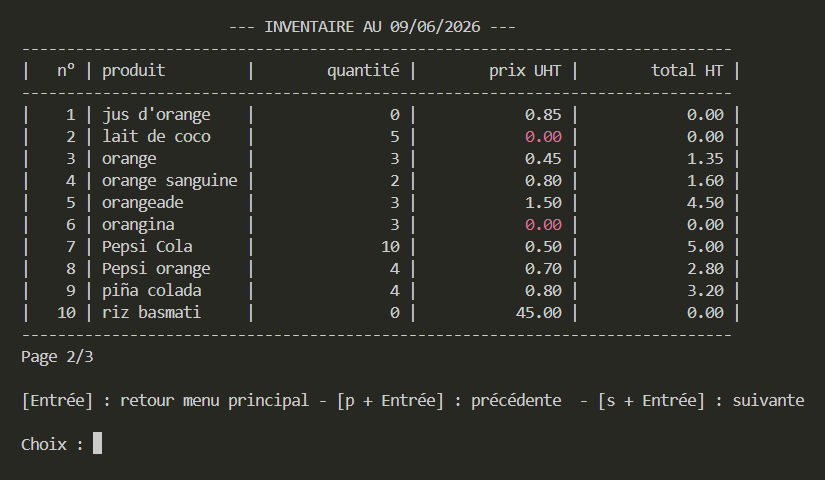
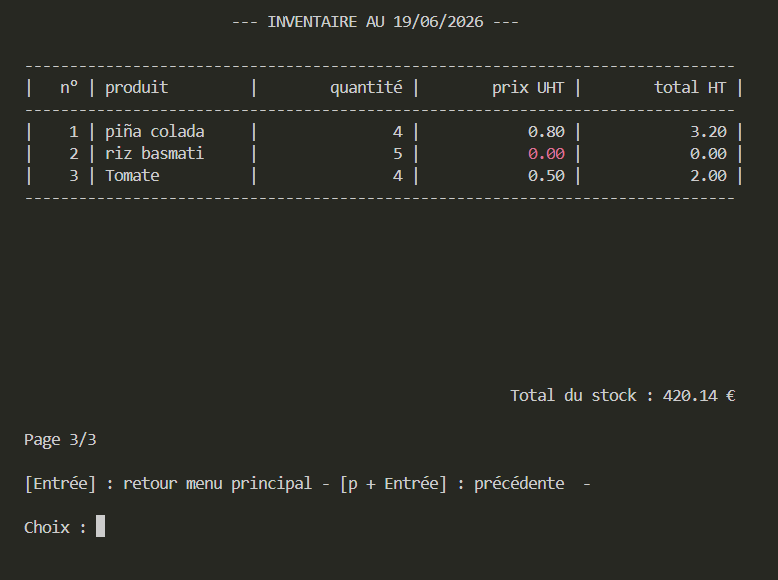
docs(readme): update screenshots and v1.2 roadmap

diff --git a/README.md b/README.md
@@ -55,25 +55,29 @@ Les données sont stockées sous forme d'une liste de dictionnaires :
 ## Aperçus de l'interface
 ```text
                     --- ETAT DU STOCK ---                    
--------------------------------------------------------------
-|   n° | produit         |        quantité |           seuil |
--------------------------------------------------------------
-|    1 | Abricot         |               5 |               3 |
-|    2 | Banane          |               5 |               2 |
-|    3 | Bonbon cola     |              30 |               5 |
-|    4 | Bonbon Tagada   |              25 |              10 |
-|    5 | Café            |               8 |               2 |
-|    6 | Cherry coke     |               6 |               3 |
-|    7 | coca cola       |               3 |               2 |
-|    8 | concombre       |               5 |               2 |
-|    9 | Fanta           |               2 |               1 |
-|   10 | Fraise Tagada   |              25 |               5 |
--------------------------------------------------------------
-Page 1/3
 
-[Entrée] : retour menu principal -                            - [s + Entrée] : suivante
+-------------------------------------------------------------
+|   n° | produit         |        quantité |  seuil d'alerte |
+-------------------------------------------------------------
+|    1 | Fraise Tagada   |               2 |               5 |
+|    2 | jus d'orange    |               0 |               0 |
+|    3 | lait de coco    |               5 |               2 |
+|    4 | noix de coco    |               3 |               1 |
+|    5 | orange          |               3 |               1 |
+|    6 | orange sanguine |               2 |               1 |
+|    7 | orangeade       |               3 |               1 |
+|    8 | orangina        |              30 |               5 |
+|    9 | Pepsi Cola      |              10 |               3 |
+|   10 | Pepsi orange    |               4 |               2 |
+-------------------------------------------------------------
 
-Choix :  
+
+
+Page 2/3
+
+[Entrée] : retour menu principal - [p + Entrée] : précédente  - [s + Entrée] : suivante
+
+Choix : 
 ```
 ![Inventaire avec valeurs en rouge](images/inventaire.png)
 
@@ -127,8 +131,11 @@ Le projet évolue progressivement afin d'améliorer la robustesse, l'expérience
 - ajout d'une colonne en première position pour indiquer le numéro de ligne
 - gestion de la pagination pour l'affichage du stock, des alertes et de l'inventaire (ex: 10 produits par page)
 - amélioration de l'affichage (centrage, espacements, clarté des messages)
+- implémentation de suggestions de noms de produits lors de la suppression ou du renommage
 - création d'un fichier imprimable pour le stock, les alertes et l'inventaire
+- revue des noms de fonctions
 - amélioration du typage statique et de la robustesse du code
+- enregistrement des anomalies dans un fichier texte
 - gestion des clés inutilisées dans le fichier JSON (état actuel : supprimées silencieusement lors d'une sauvegarde) : afficher un warning
 - version bilingue du fichier `README.md`
 - traduction en anglais des commentaires du fichier `.gitignore`